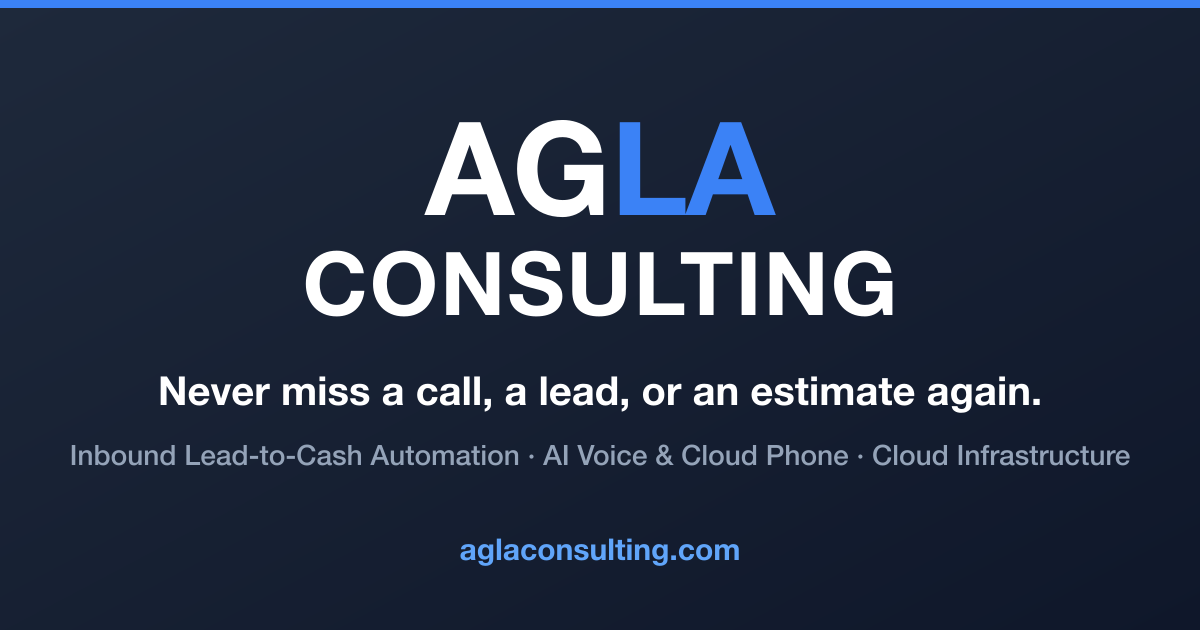
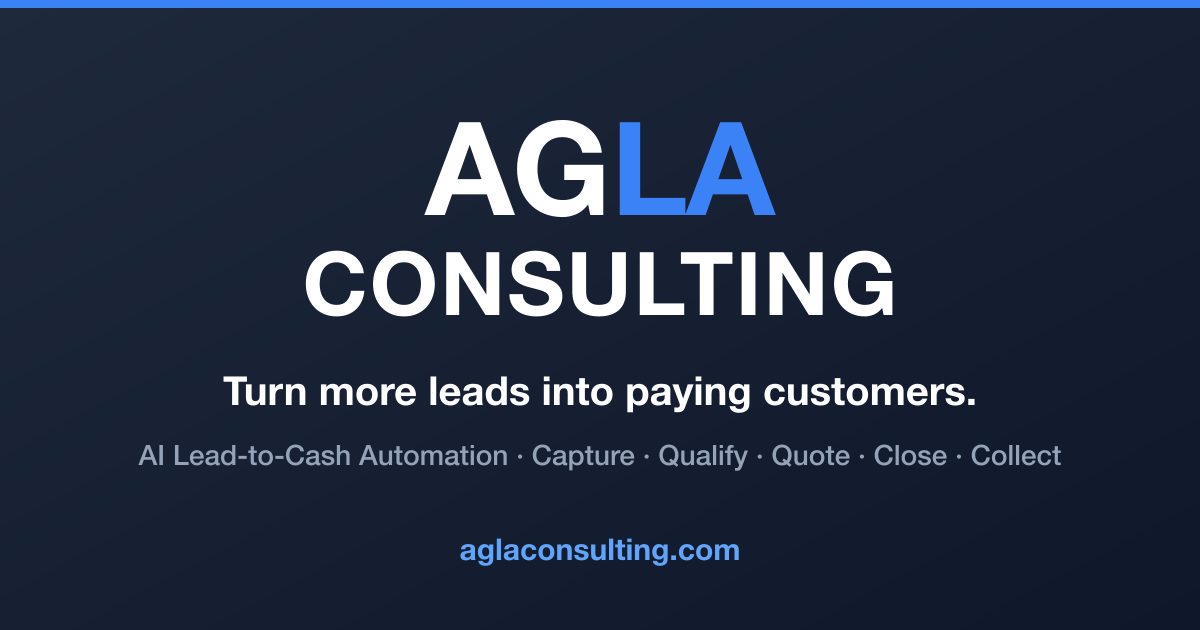
Reposition around the Lead-to-Cash lifecycle: 5-stage L2C section, entry points, revenue KPIs

Changed region(s): [[0.1233, 0.573, 0.8633, 0.6635], [0.0617, 0.6937, 0.7092, 0.754], [0.74, 0.6937, 0.9558, 0.754]]

diff --git a/index.html b/index.html
@@ -3,10 +3,10 @@
 <head>
   <meta charset="UTF-8">
   <meta name="viewport" content="width=device-width, initial-scale=1.0">
-  <title>Agla Consulting | AI Lead-to-Cash Automation, Cloud &amp; Phone Systems</title>
+  <title>Agla Consulting | AI Lead-to-Cash Automation for Growing Businesses</title>
   
   <!-- Primary Meta Tags -->
-  <meta name="description" content="Agla (Hindi for &quot;next&quot;) helps growing service businesses answer every call, qualify every lead and send estimates fast with practical AI, backed by reliable cloud and phone infrastructure.">
+  <meta name="description" content="Agla automates the Lead-to-Cash (L2C) lifecycle for small and midsize businesses with practical AI: capture and qualify every lead, send quotes in minutes, close faster and get paid sooner.">
   <meta name="author" content="Agla Consulting LLC">
 
   <!-- Favicons -->
@@ -18,12 +18,12 @@
   <!-- Open Graph / Social -->
   <meta property="og:type" content="website">
   <meta property="og:url" content="https://aglaconsulting.com/">
-  <meta property="og:title" content="Agla Consulting | Your Next Step in Practical AI">
-  <meta property="og:description" content="AI that answers calls, qualifies leads and sends estimates, built on reliable cloud and phone infrastructure.">
+  <meta property="og:title" content="Agla Consulting | Turn More Leads Into Paying Customers">
+  <meta property="og:description" content="AI automation across the Lead-to-Cash lifecycle: capture, qualify, quote, close and collect.">
   <meta property="og:image" content="https://aglaconsulting.com/og-image.png">
   <meta property="og:image:width" content="1200">
   <meta property="og:image:height" content="630">
-  <meta property="og:image:alt" content="Agla Consulting: Never miss a call, a lead, or an estimate again.">
+  <meta property="og:image:alt" content="Agla Consulting: Turn more leads into paying customers. AI Lead-to-Cash automation.">
   <meta name="twitter:card" content="summary_large_image">
   <meta name="twitter:image" content="https://aglaconsulting.com/og-image.png">
 
@@ -63,13 +63,43 @@
     /* Services Grid */
     .services-section { padding: 80px 24px; background-color: rgba(30, 41, 59, 0.5); border-top: 1px solid #1e293b; }
     .section-title { font-size: 2rem; font-weight: 700; text-align: center; color: #ffffff; margin-bottom: 12px; }
-    .section-subtitle { font-size: 1rem; color: #94a3b8; text-align: center; margin-bottom: 48px; }
+    .section-subtitle { font-size: 1rem; color: #94a3b8; text-align: center; max-width: 820px; margin: 0 auto 48px; line-height: 1.6; }
     .grid { max-width: 1200px; margin: 0 auto; display: grid; grid-template-columns: repeat(auto-fit, minmax(320px, 1fr)); gap: 32px; }
     .card { background-color: #1e293b; border: 1px solid #334155; padding: 32px; border-radius: 12px; transition: transform 0.2s, border-color 0.2s; }
     .card:hover { transform: translateY(-4px); border-color: #3b82f6; }
     .icon-box { width: 48px; height: 48px; background-color: rgba(59, 130, 246, 0.1); border-radius: 8px; display: flex; align-items: center; justify-content: center; margin-bottom: 20px; color: #60a5fa; }
     .card h3 { font-size: 1.25rem; font-weight: 700; color: #ffffff; margin-bottom: 12px; }
     .card p { color: #94a3b8; font-size: 0.9375rem; line-height: 1.6; }
+
+
+    /* Lead-to-Cash lifecycle */
+    .l2c-steps { max-width: 1200px; margin: 0 auto; display: grid; grid-template-columns: repeat(auto-fit, minmax(210px, 1fr)); gap: 16px; counter-reset: stage; }
+    .stage { background-color: #1e293b; border: 1px solid #334155; border-top: 3px solid #3b82f6; border-radius: 12px; padding: 24px 20px; display: flex; flex-direction: column; }
+    .stage-num { font-size: 0.75rem; font-weight: 700; letter-spacing: 0.08em; text-transform: uppercase; color: #60a5fa; margin-bottom: 6px; }
+    .stage h3 { font-size: 1.125rem; font-weight: 700; color: #ffffff; margin-bottom: 8px; }
+    .stage-tag { align-self: flex-start; display: flex; align-items: center; min-height: 40px; font-size: 0.75rem; font-weight: 600; line-height: 1.35; color: #cbd5e1; background-color: rgba(59, 130, 246, 0.12); border: 1px solid rgba(59, 130, 246, 0.3); border-radius: 8px; padding: 4px 10px; margin-bottom: 16px; }
+    .stage-label { font-size: 0.75rem; font-weight: 700; text-transform: uppercase; letter-spacing: 0.06em; margin-bottom: 4px; }
+    .stage-label.leak { color: #fca5a5; }
+    .stage-label.fix { color: #60a5fa; margin-top: 14px; }
+    .stage p { font-size: 0.875rem; color: #94a3b8; line-height: 1.55; }
+    .l2c-note { max-width: 820px; margin: 32px auto 0; text-align: center; font-size: 0.9375rem; color: #94a3b8; }
+    .l2c-note strong { color: #ffffff; }
+
+    /* Entry points */
+    .path-grid { max-width: 1000px; margin: 0 auto; display: grid; grid-template-columns: repeat(2, 1fr); gap: 24px; }
+    .path-card { background-color: #1e293b; border: 1px solid #334155; border-radius: 12px; padding: 28px; }
+    .path-card h3 { font-size: 1.25rem; font-weight: 700; color: #ffffff; margin-bottom: 4px; }
+    .path-card .path-span { font-size: 0.8125rem; font-weight: 600; color: #60a5fa; margin-bottom: 12px; }
+    .path-card p { font-size: 0.9375rem; color: #94a3b8; line-height: 1.6; }
+    .path-card .best-for { margin-top: 12px; color: #cbd5e1; }
+    .path-card.featured { border-color: #3b82f6; box-shadow: 0 0 0 1px rgba(59, 130, 246, 0.35); }
+
+    /* KPIs */
+    .kpi-grid { max-width: 1200px; margin: 0 auto; display: grid; grid-template-columns: repeat(auto-fit, minmax(200px, 1fr)); gap: 16px; }
+    .kpi { background-color: #1e293b; border: 1px solid #334155; border-radius: 12px; padding: 20px; text-align: center; }
+    .kpi h3 { font-size: 1rem; font-weight: 700; color: #ffffff; margin-bottom: 6px; }
+    .kpi .kpi-stage { font-size: 0.75rem; font-weight: 600; color: #60a5fa; margin-bottom: 8px; }
+    .kpi p { font-size: 0.875rem; color: #94a3b8; }
 
     /* Contact Form Section */
     .contact-section { padding: 80px 24px; max-width: 640px; margin: 0 auto; }
@@ -97,6 +127,7 @@
     @media (max-width: 900px) { .roi-grid { grid-template-columns: repeat(2, 1fr); } }
     @media (max-width: 768px) {
       .roi-grid { grid-template-columns: 1fr; }
+      .path-grid { grid-template-columns: 1fr; }
       .hero h1 { font-size: 2.25rem; }
       .nav-links { display: none; }
       .contact-card { padding: 24px; }
@@ -110,7 +141,7 @@
         <img src="agla-footprint-logo-nav.png" alt="Agla Consulting, LLC" width="155" height="52" style="height: 52px; width: auto;">
       </a>
       <div class="nav-links">
-        <a href="#how">How It Works</a>
+        <a href="#l2c">Lead-to-Cash</a>
         <a href="#services">Services</a>
         <a href="#why">Why Agla</a>
         <a href="#contact" class="btn-nav">Book a Free Workflow Review</a>
@@ -122,8 +153,8 @@
     <!-- Hero -->
     <section class="hero">
       <div class="badge">Agla (अगला) means &ldquo;next&rdquo; &middot; Practical AI for growing businesses</div>
-      <h1>Never miss a call, a lead,<br><span>or an estimate again.</span></h1>
-      <p>Agla builds AI agents that answer your calls, qualify new leads, send quotes in minutes, and carry every opportunity through to payment. They run on reliable cloud and phone infrastructure built for businesses that can't afford downtime.</p>
+      <h1>Turn more leads into<br><span>paying customers.</span></h1>
+      <p>Agla automates your <strong>Lead-to-Cash</strong> lifecycle with practical AI. Every call gets answered, every lead gets qualified, quotes go out in minutes, and invoices get paid faster. It all runs on reliable cloud and phone infrastructure built for businesses that can't afford downtime.</p>
       <div style="display: flex; flex-wrap: wrap; justify-content: center; gap: 16px; margin-bottom: 40px; font-size: 0.9375rem; color: #cbd5e1;">
         <span style="background: rgba(30, 41, 59, 0.8); border: 1px solid #334155; padding: 6px 16px; border-radius: 9999px;">✓ Telecom &amp; cloud expertise</span>
         <span style="background: rgba(30, 41, 59, 0.8); border: 1px solid #334155; padding: 6px 16px; border-radius: 9999px;">✓ Fixed-scope pilots</span>
@@ -132,7 +163,7 @@
       </div>
       <div style="display: flex; justify-content: center; gap: 16px; flex-wrap: wrap;">
         <a href="#contact" class="btn-hero">Book a Free Workflow Review</a>
-        <a href="#how" style="display: inline-block; background-color: transparent; color: #ffffff; border: 1px solid #334155; font-weight: 600; padding: 14px 28px; border-radius: 8px;">See How It Works</a>
+        <a href="#l2c" style="display: inline-block; background-color: transparent; color: #ffffff; border: 1px solid #334155; font-weight: 600; padding: 14px 28px; border-radius: 8px;">See the Lead-to-Cash Lifecycle</a>
       </div>
     </section>
 
@@ -141,51 +172,144 @@
       <div class="roi-grid">
         <div class="roi-item"><div class="roi-value">Weeks</div><div class="roi-label">Not Quarters</div><div class="roi-desc">Scoped pilots target one painful workflow and prove value before you commit further.</div></div>
         <div class="roi-item"><div class="roi-value">24 / 7</div><div class="roi-label">Lead Capture</div><div class="roi-desc">An AI agent answers calls and web inquiries any hour, so no lead waits until Monday.</div></div>
-        <div class="roi-item"><div class="roi-value">Minutes</div><div class="roi-label">To First Estimate</div><div class="roi-desc">Job details are collected and priced automatically, so customers hear back while they're still interested.</div></div>
+        <div class="roi-item"><div class="roi-value">Minutes</div><div class="roi-label">To First Quote</div><div class="roi-desc">Details are collected and priced automatically, so customers hear back while they're still interested.</div></div>
         <div class="roi-item"><div class="roi-value">Every Channel</div><div class="roi-label">Calls, Texts &amp; Web</div><div class="roi-desc">Phone, SMS and web-form leads flow into one organized pipeline.</div></div>
-        <div class="roi-item"><div class="roi-value">Your Rules</div><div class="roi-label">Your Pricing</div><div class="roi-desc">Estimates follow your pricing, service areas and scheduling rules, not a generic template.</div></div>
-        <div class="roi-item"><div class="roi-value">Human Review</div><div class="roi-label">You Stay in Control</div><div class="roi-desc">Estimates and customer messages can require your approval until you trust the system.</div></div>
-        <div class="roi-item"><div class="roi-value">Your Tools</div><div class="roi-label">CRM &amp; Calendar Automation</div><div class="roi-desc">Connects to the CRM, calendar and accounting tools you already use.</div></div>
+        <div class="roi-item"><div class="roi-value">Your Rules</div><div class="roi-label">Your Pricing</div><div class="roi-desc">Quotes follow your pricing, discounts, service areas and scheduling rules, not a generic template.</div></div>
+        <div class="roi-item"><div class="roi-value">Human Review</div><div class="roi-label">You Stay in Control</div><div class="roi-desc">Quotes and customer messages can require your approval until you trust the system.</div></div>
+        <div class="roi-item"><div class="roi-value">Your Tools</div><div class="roi-label">CRM &amp; Calendar Automation</div><div class="roi-desc">Connects to the CRM, calendar, e-signature and accounting tools you already use.</div></div>
         <div class="roi-item"><div class="roi-value">Fixed Scope</div><div class="roi-label">Clear Pricing</div><div class="roi-desc">Every engagement starts with a defined outcome, timeline and price.</div></div>
         <div class="roi-item"><div class="roi-value">You Own It</div><div class="roi-label">No Lock-In</div><div class="roi-desc">Your data, workflows and accounts stay yours, with documentation to match.</div></div>
       </div>
     </section>
 
-    <!-- How it works -->
-    <section id="how" class="services-section">
-      <h2 class="section-title">Inbound Lead-to-Cash Automation</h2>
-      <p class="section-subtitle">Our flagship offering: we improve, automate and optimize the path from a new inquiry to a paid invoice for small and midsize businesses.</p>
-      <div class="grid">
-        <article class="card">
-          <div class="icon-box"><svg width="24" height="24" fill="none" stroke="currentColor" stroke-width="2" viewBox="0 0 24 24" aria-hidden="true"><path d="M3 5a2 2 0 012-2h3.28a1 1 0 01.95.68l1.5 4.5a1 1 0 01-.5 1.2l-2.26 1.13a11 11 0 005.52 5.52l1.13-2.26a1 1 0 011.2-.5l4.5 1.5a1 1 0 01.68.95V19a2 2 0 01-2 2h-1C9.72 21 3 14.28 3 6V5z"></path></svg></div>
-          <h3>1. Capture &amp; Qualify</h3>
-          <p>AI agents answer calls, texts and web inquiries around the clock, gather the details you need to price the work, and route every lead to the right place so none go cold.</p>
+    <!-- Lead-to-Cash lifecycle -->
+    <section id="l2c" class="services-section">
+      <h2 class="section-title">The Lead-to-Cash Lifecycle, Automated</h2>
+      <p class="section-subtitle">Lead-to-Cash (L2C) covers every step from first inquiry to money in the bank. Most small businesses lose revenue in the handoffs between stages. We close those gaps with AI and automation.</p>
+      <div class="l2c-steps">
+        <article class="stage">
+          <div class="stage-num">Stage 1</div>
+          <h3>Capture</h3>
+          <span class="stage-tag">Lead Management</span>
+          <div class="stage-label leak">Where revenue leaks</div>
+          <p>Missed calls, slow replies and inquiries buried in inboxes. Most buyers go with whoever responds first.</p>
+          <div class="stage-label fix">What we automate</div>
+          <p>AI answers calls, texts and web forms 24/7, responds in seconds, and logs every lead in your CRM with its source.</p>
         </article>
-
-        <article class="card">
-          <div class="icon-box"><svg width="24" height="24" fill="none" stroke="currentColor" stroke-width="2" viewBox="0 0 24 24" aria-hidden="true"><path d="M9 12l2 2 4-4m6 2a9 9 0 11-18 0 9 9 0 0118 0z"></path></svg></div>
-          <h3>2. Quote &amp; Book</h3>
-          <p>Your pricing and scheduling rules produce a professional quote in minutes. Follow-ups run automatically, accepted work lands on your calendar, and edge cases are flagged for your review.</p>
+        <article class="stage">
+          <div class="stage-num">Stage 2</div>
+          <h3>Qualify</h3>
+          <span class="stage-tag">Lead Conversion &amp; Qualification</span>
+          <div class="stage-label leak">Where revenue leaks</div>
+          <p>Time spent on poor-fit inquiries while good leads go cold waiting for a callback.</p>
+          <div class="stage-label fix">What we automate</div>
+          <p>AI asks your qualifying questions, scores the lead, converts it to an opportunity, and routes it or books the appointment.</p>
         </article>
-
-        <article class="card">
-          <div class="icon-box"><svg width="24" height="24" fill="none" stroke="currentColor" stroke-width="2" viewBox="0 0 24 24" aria-hidden="true"><path d="M3 8l7.89 5.26a2 2 0 002.22 0L21 8M5 19h14a2 2 0 002-2V7a2 2 0 00-2-2H5a2 2 0 00-2 2v10a2 2 0 002 2z"></path></svg></div>
-          <h3>3. Invoice &amp; Get Paid</h3>
-          <p>Completed work triggers invoicing, payment reminders and CRM updates, so revenue is collected faster with less manual paperwork.</p>
+        <article class="stage">
+          <div class="stage-num">Stage 3</div>
+          <h3>Quote</h3>
+          <span class="stage-tag">CPQ: Configure, Price, Quote</span>
+          <div class="stage-label leak">Where revenue leaks</div>
+          <p>Quotes take days, pricing varies by who wrote it, and nobody follows up.</p>
+          <div class="stage-label fix">What we automate</div>
+          <p>Your pricing and discount rules generate a professional proposal in minutes, with automatic follow-ups until you get a yes or no.</p>
         </article>
+        <article class="stage">
+          <div class="stage-num">Stage 4</div>
+          <h3>Close</h3>
+          <span class="stage-tag">Contract &amp; Order Management</span>
+          <div class="stage-label leak">Where revenue leaks</div>
+          <p>Approved quotes stall waiting on signatures, deposits or scheduling.</p>
+          <div class="stage-label fix">What we automate</div>
+          <p>E-signature and deposit requests go out automatically, and accepted quotes become scheduled jobs or orders.</p>
+        </article>
+        <article class="stage">
+          <div class="stage-num">Stage 5</div>
+          <h3>Collect</h3>
+          <span class="stage-tag">Billing &amp; Collections</span>
+          <div class="stage-label leak">Where revenue leaks</div>
+          <p>Invoices go out late and someone spends hours chasing payments.</p>
+          <div class="stage-label fix">What we automate</div>
+          <p>Completed work triggers the invoice and a payment link, reminders run on their own, and payments sync to your accounting.</p>
+        </article>
+      </div>
+      <p class="l2c-note"><strong>One connected system, not five disconnected tools.</strong> Each stage hands off to the next automatically, so nothing waits on a sticky note, an inbox or a busy owner.</p>
+    </section>
 
+    <!-- Entry points -->
+    <section id="paths" class="services-section" style="background-color: transparent;">
+      <h2 class="section-title">Start Where Revenue Leaks Most</h2>
+      <p class="section-subtitle">You don't have to automate everything at once. We start at the stage costing you the most, then extend across the lifecycle.</p>
+      <div class="path-grid">
+        <article class="path-card featured">
+          <h3>Lead-to-Cash (L2C)</h3>
+          <div class="path-span">First inquiry &rarr; payment collected</div>
+          <p>The complete lifecycle, automated end to end. Every touchpoint from the first call through quoting, closing, invoicing and collection works as one connected system.</p>
+          <p class="best-for"><strong>Best when:</strong> Leads, quotes and billing live in separate tools, spreadsheets or someone's head.</p>
+        </article>
+        <article class="path-card">
+          <h3>Opportunity-to-Cash</h3>
+          <div class="path-span">Qualified opportunity &rarr; payment collected</div>
+          <p>Picks up once a lead is qualified. It connects your sales follow-through, quoting and closing directly to billing so deals don't fall through the cracks.</p>
+          <p class="best-for"><strong>Best when:</strong> You get plenty of good leads, but too few turn into signed work.</p>
+        </article>
+        <article class="path-card">
+          <h3>Quote-to-Cash (Q2C)</h3>
+          <div class="path-span">Quote created &rarr; payment collected</div>
+          <p>Focuses on the estimate onward: faster, consistent quotes, e-signature, deposits, invoicing and payment collection.</p>
+          <p class="best-for"><strong>Best when:</strong> Quotes are slow, inconsistent or rarely followed up.</p>
+        </article>
+        <article class="path-card">
+          <h3>Order-to-Cash</h3>
+          <div class="path-span">Deal closed &rarr; payment collected</div>
+          <p>The back-office half: turning approved work into scheduled jobs or orders, then billing and collecting without manual chasing.</p>
+          <p class="best-for"><strong>Best when:</strong> The work gets done, but cash comes in late.</p>
+        </article>
+      </div>
+    </section>
+
+    <!-- KPIs -->
+    <section id="metrics" class="services-section">
+      <h2 class="section-title">Metrics That Move Revenue</h2>
+      <p class="section-subtitle">We baseline these before we start and report them after go-live, so you can see exactly where conversion and cash flow improved.</p>
+      <div class="kpi-grid">
+        <div class="kpi">
+          <h3>Speed to Lead</h3>
+          <div class="kpi-stage">Capture</div>
+          <p>Time from first inquiry to first response.</p>
+        </div>
+        <div class="kpi">
+          <h3>Lead-to-Opportunity Rate</h3>
+          <div class="kpi-stage">Qualify</div>
+          <p>Share of inquiries that become qualified opportunities.</p>
+        </div>
+        <div class="kpi">
+          <h3>Quote Turnaround</h3>
+          <div class="kpi-stage">Quote</div>
+          <p>Time from qualified opportunity to quote delivered.</p>
+        </div>
+        <div class="kpi">
+          <h3>Quote Win Rate</h3>
+          <div class="kpi-stage">Close</div>
+          <p>Share of quotes that turn into signed work.</p>
+        </div>
+        <div class="kpi">
+          <h3>Days to Cash</h3>
+          <div class="kpi-stage">Collect</div>
+          <p>Time from completed work to payment received.</p>
+        </div>
       </div>
     </section>
 
     <!-- Services -->
     <section id="services" class="services-section" style="background-color: transparent;">
       <h2 class="section-title">Everything Behind the Automation</h2>
-      <p class="section-subtitle">AI is the front door. Reliable infrastructure and sound governance keep it running.</p>
+      <p class="section-subtitle">AI drives the Lead-to-Cash lifecycle. Reliable infrastructure and sound governance keep it running.</p>
       <div class="grid">
         <article class="card">
           <div class="icon-box"><svg width="24" height="24" fill="none" stroke="currentColor" stroke-width="2" viewBox="0 0 24 24" aria-hidden="true"><path d="M13 10V3L4 14h7v7l9-11h-7z"></path></svg></div>
           <h3>Agentic AI Workflows</h3>
-          <p>Multi-step AI agents for lead intake, estimating, scheduling and quality checks, connected to the tools you already use.</p>
+          <p>AI agents for every Lead-to-Cash stage: intake, qualification, quoting, follow-up, invoicing and collections, connected to your CRM and accounting tools.</p>
         </article>
 
         <article class="card">
@@ -251,7 +375,7 @@
     <section id="contact" class="contact-section">
       <div class="contact-card">
         <h2>Book a Free Workflow Review</h2>
-        <p>30 minutes. Tell us where calls, leads or estimates slip through the cracks, and we'll show you what could be automated first.</p>
+        <p>30 minutes. Tell us where leads, quotes or payments slip through the cracks, and we'll map your Lead-to-Cash workflow and show you what to automate first.</p>
         <form id="contact-form" action="https://formspree.io/f/xbggnjvk" method="POST">
           <!-- Spam trap: hidden from people; bots that fill it are discarded by Formspree -->
           <input type="text" name="_gotcha" tabindex="-1" autocomplete="off" aria-hidden="true" style="position: absolute; left: -9999px;">
@@ -263,7 +387,10 @@
             <label for="service">What do you want help with?</label>
             <select id="service" name="service" required>
               <option value="" disabled selected>Select an option...</option>
-              <option value="Lead-to-Cash Automation">Inbound lead-to-cash automation</option>
+              <option value="Lead-to-Cash (full lifecycle)">Full lead-to-cash automation</option>
+              <option value="Lead capture and qualification">Lead capture &amp; qualification</option>
+              <option value="Quote-to-Cash">Quoting, proposals &amp; follow-up (quote-to-cash)</option>
+              <option value="Order-to-Cash">Invoicing &amp; collections (order-to-cash)</option>
               <option value="AI Voice and Cloud Phone">AI voice agent / cloud phone (VoIP)</option>
               <option value="Cloud Infrastructure">Cloud infrastructure</option>
               <option value="Security">Security &amp; access governance</option>
@@ -272,7 +399,7 @@
               <option value="Not sure">Not sure yet</option>
             </select>
           </div>
-          <div class="form-group"><label for="message">What's slowing your business down?</label><textarea id="message" name="message" rows="4" placeholder="e.g. We miss calls while on jobs and quotes take two days..." required></textarea></div>
+          <div class="form-group"><label for="message">What's slowing your business down?</label><textarea id="message" name="message" rows="4" placeholder="e.g. We miss calls while on jobs, quotes take two days, and invoices go out late..." required></textarea></div>
           <button type="submit" class="btn-submit">Request My Free Review</button>
           <p id="form-error" class="form-error" role="alert" hidden>Something went wrong sending your request. Please try again or email <a href="mailto:sales@aglaconsulting.com">sales@aglaconsulting.com</a>.</p>
         </form>
